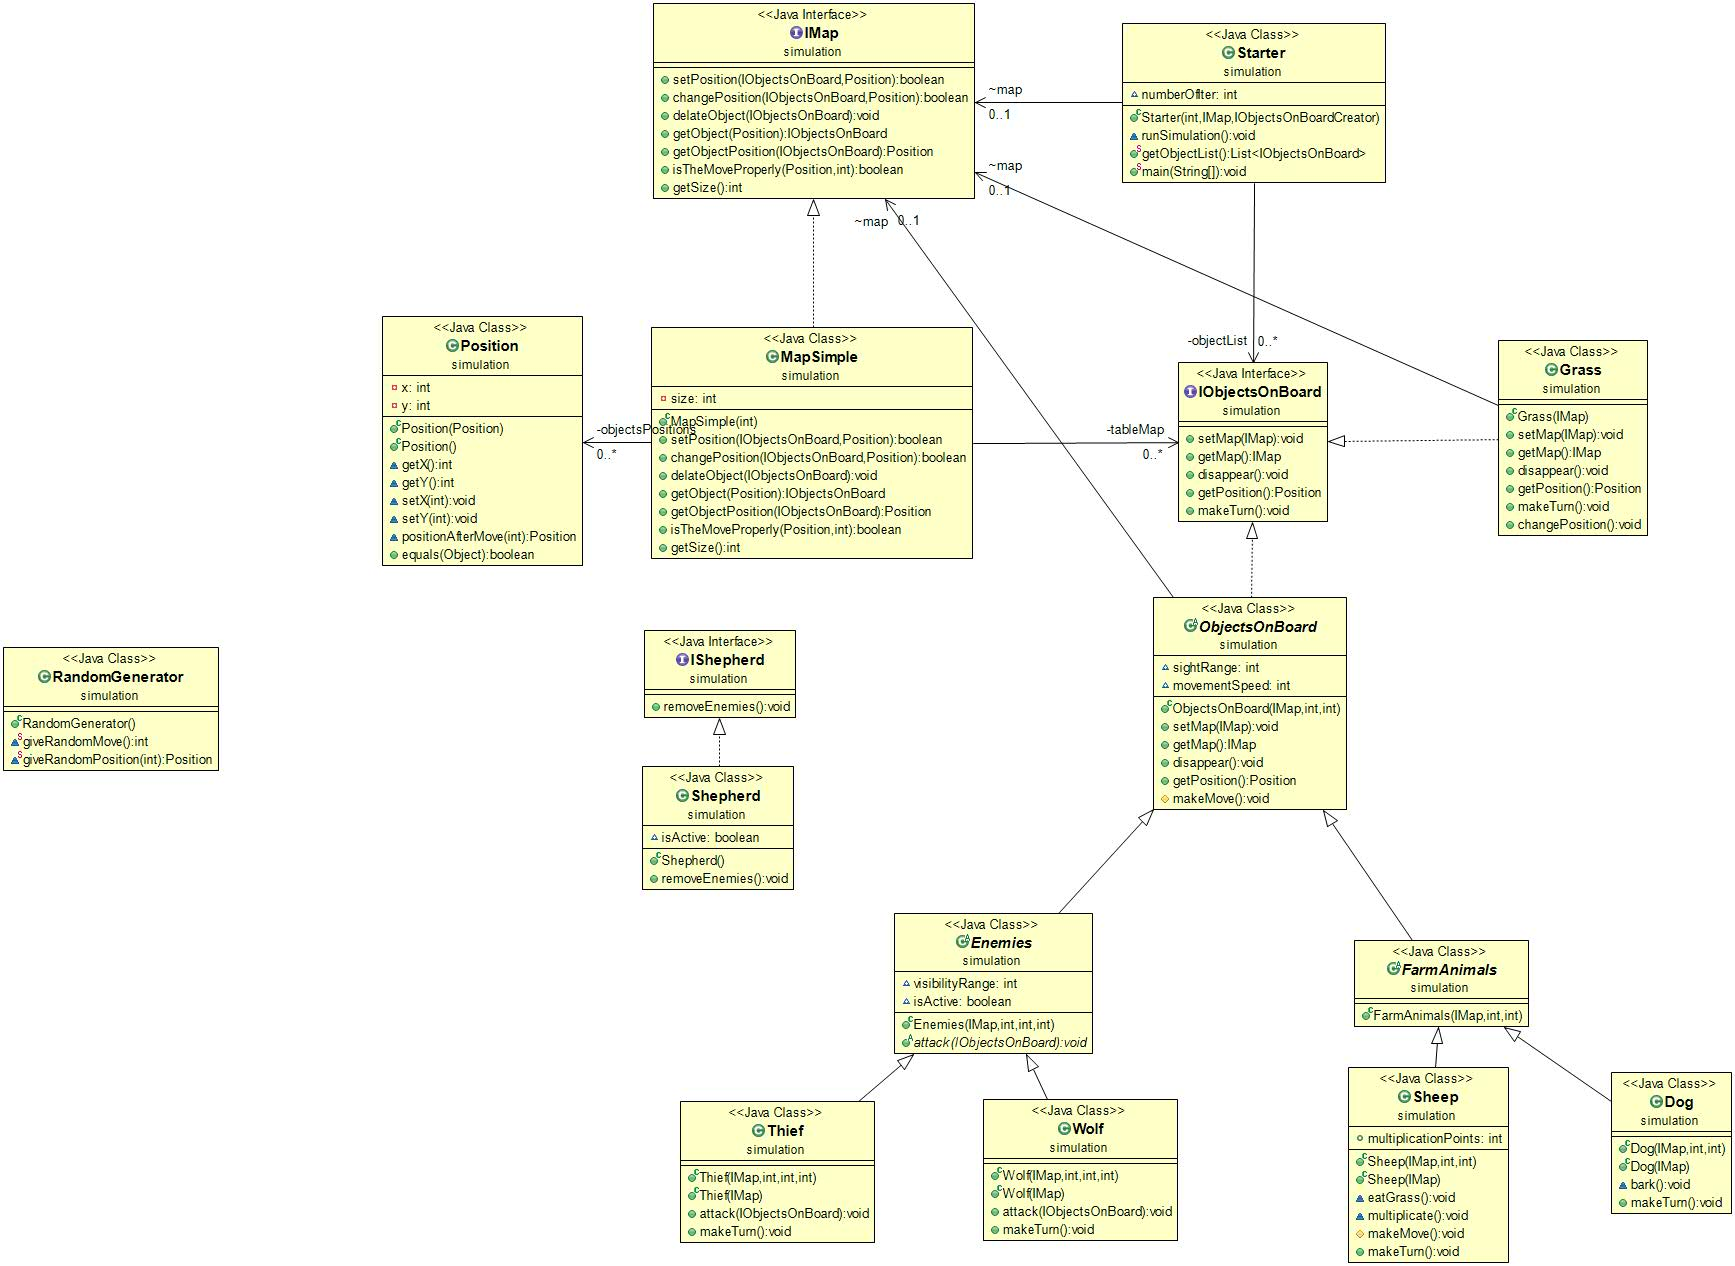
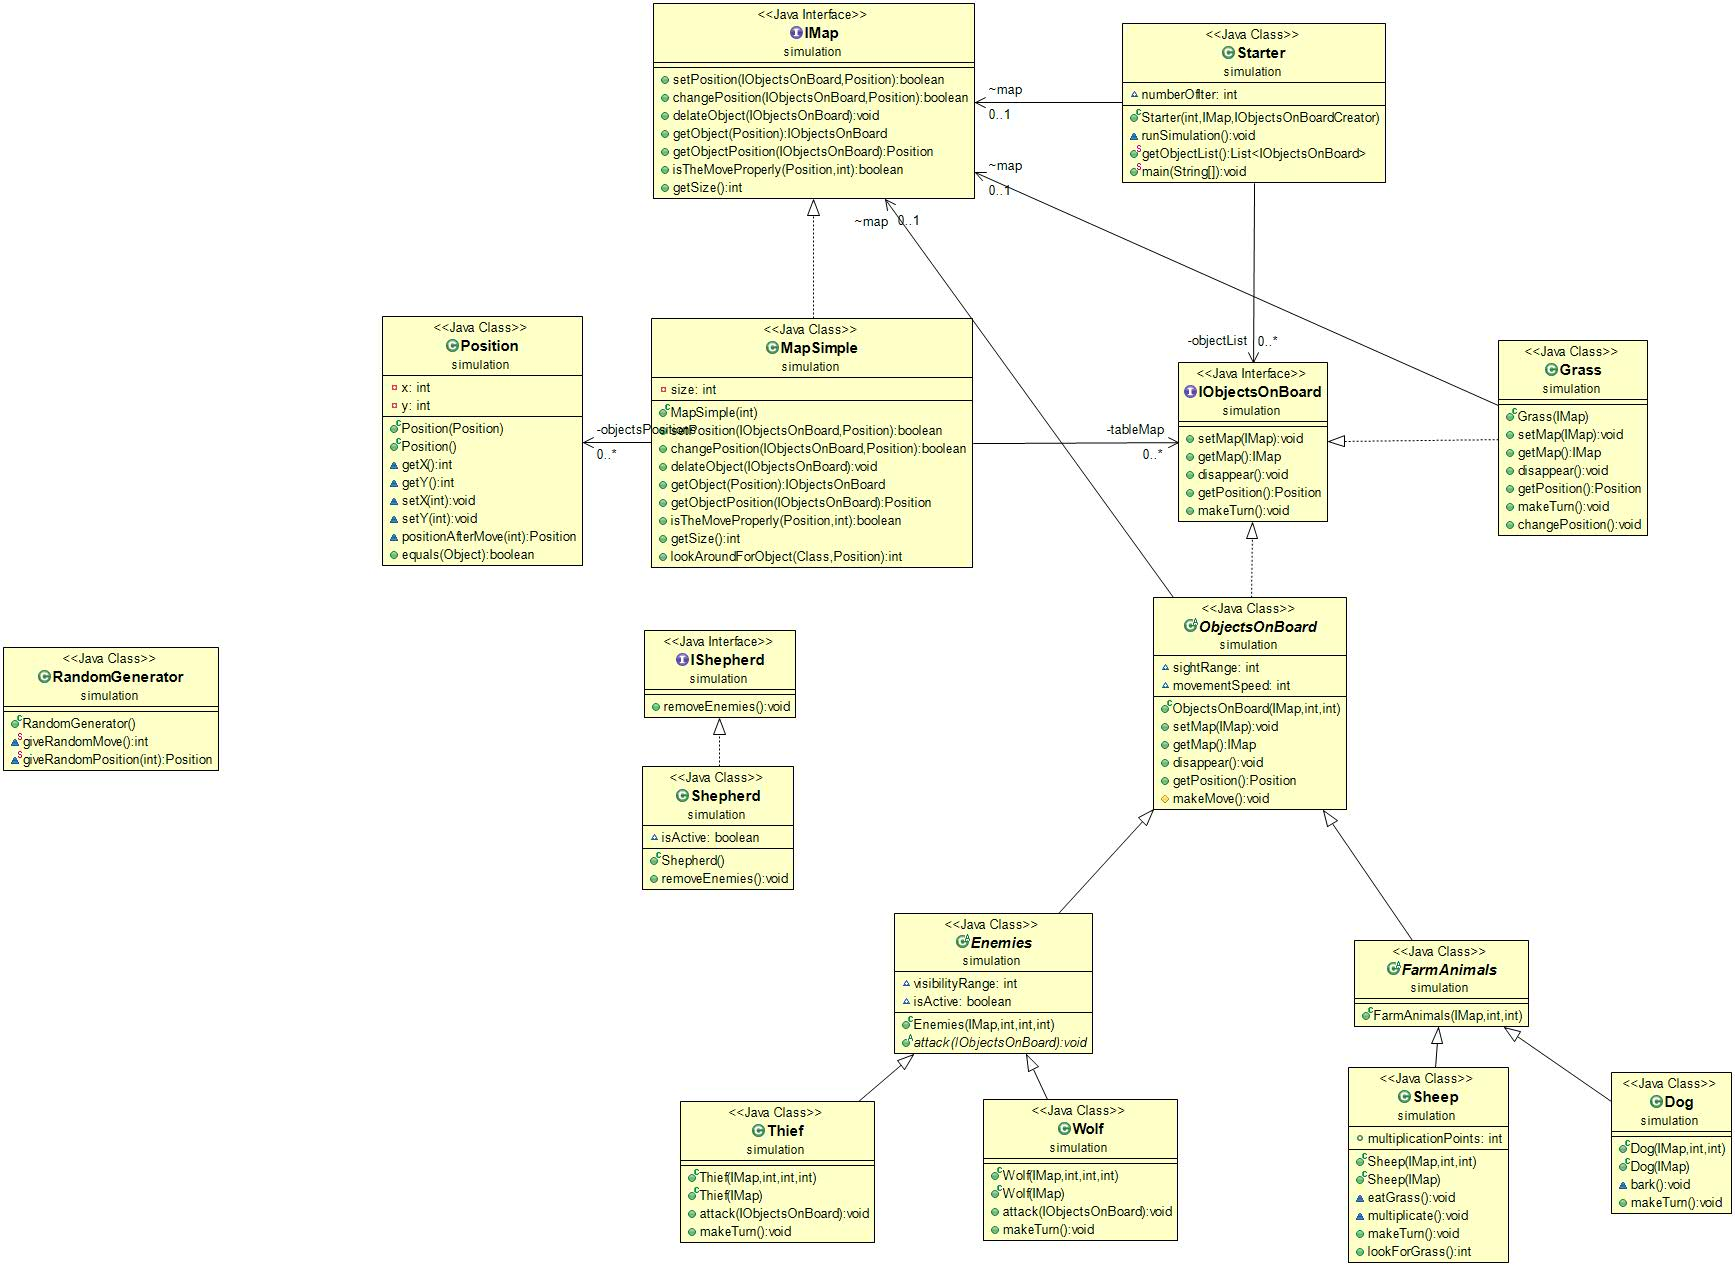
Dodanie metod sprawdzających sądziedztwo w Map Simple, IMap zaktualizowany

Changed region(s): [[0.3735, 0.2464, 0.5602, 0.4621], [0.7781, 0.955, 0.8403, 1.0]]

diff --git a/ProjectSimulation/src/main/java/simulation/MapSimple.java b/ProjectSimulation/src/main/java/simulation/MapSimple.java
@@ -89,6 +89,45 @@ public class MapSimple implements IMap {
 	public int getSize() {
 		return this.size;
 	}
+	
+	public int lookAroundForGrass(Position position) { //jako parametr przyjmuje klase której obiektow szuka
+		
+		int posX = position.getX();
+		int posY = position.getY();
+		for(IObjectsOnBoard obj : Starter.getObjectList()) {
+			if(obj instanceof Grass)						//przeszukujemy tylko obiekty typu Grass
+			{
+				int grassPosX=obj.getPosition().getX();			//przypisania w celu skrocenia zapisu
+				int grassPosY=obj.getPosition().getY();
+				if(posX == grassPosX && posY+1==grassPosY) return 1;	//zwraca kierunek 1 (jest do góry)
+				if(posX+1 == grassPosX && posY==grassPosY) return 2;	//zwraca kierunek 2 (jest na prawo)
+				if(posX == grassPosX && posY-1==grassPosY) return 3;	//zwraca kierunek 3 (jest na dół)
+				if(posX-1 == grassPosX && posY==grassPosY) return 4;	//zwraca kierunek 4 (jest na lewo)
+			}
+		}
+		return 0;
+		
+	}
+	
+public int wolfLookAroundForSheep(Position position) { 
+		
+		int posX = position.getX();
+		int posY = position.getY();
+		for(IObjectsOnBoard obj : Starter.getObjectList()) {
+			if(obj instanceof Sheep)									//przeszukujemy tylko obiekty typu Sheep
+			{
+				int sheepPosX=obj.getPosition().getX();					//przypisania w celu skrocenia zapisu
+				int sheepPosY=obj.getPosition().getY();
+				if(posX == sheepPosX && posY+1==sheepPosY) return 1;	//zwraca kierunek 1 (jest do góry)
+				if(posX+1 == sheepPosX && posY==sheepPosY) return 2;	//zwraca kierunek 2 (jest na prawo)
+				if(posX == sheepPosX && posY-1==sheepPosY) return 3;	//zwraca kierunek 3 (jest na dół)
+				if(posX-1 == sheepPosX && posY==sheepPosY) return 4;	//zwraca kierunek 4 (jest na lewo)
+				return 0;
+			}
+		}
+		return 0;
+		
+	}
 
 	
 }

diff --git a/ProjectSimulation/src/main/java/simulation/IMap.java b/ProjectSimulation/src/main/java/simulation/IMap.java
@@ -17,5 +17,9 @@ public interface IMap {
 	boolean isTheMoveProperly(Position position, int move);
 	
 	int getSize();
+	
+	int wolfLookAroundForSheep(Position position);
+	
+	int lookAroundForGrass(Position position);
 
 }

diff --git a/ProjectSimulation/src/main/java/simulation/RandomGenerator.java b/ProjectSimulation/src/main/java/simulation/RandomGenerator.java
@@ -20,4 +20,5 @@ public class RandomGenerator {
 		
 		return position;
 	}
+	
 }
